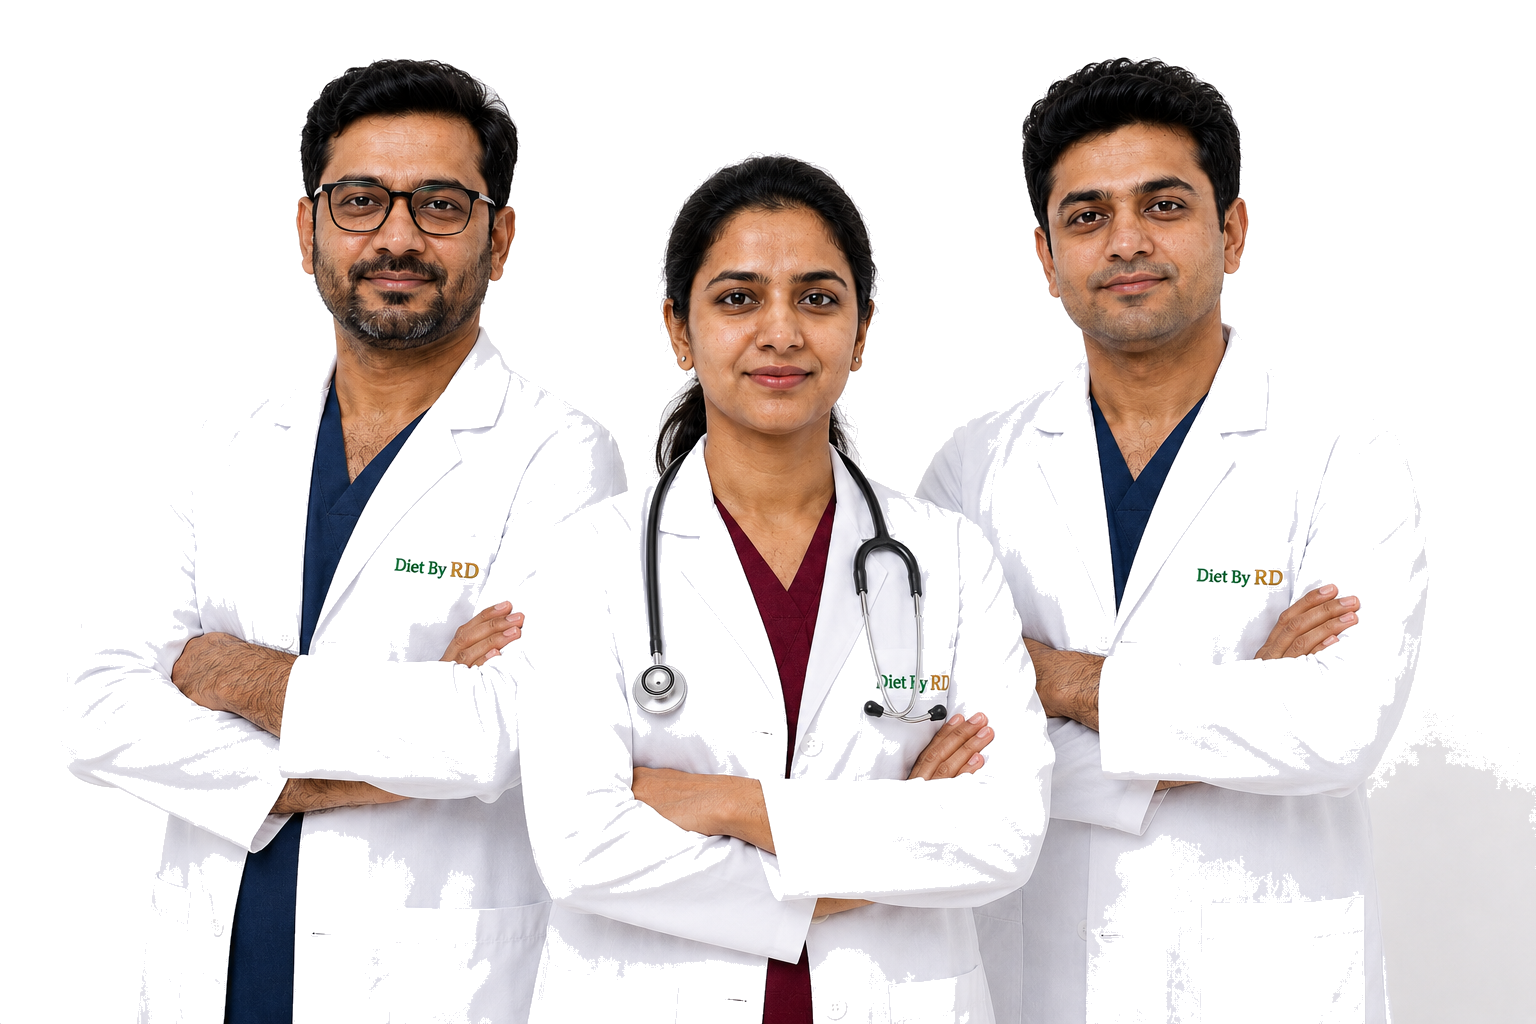
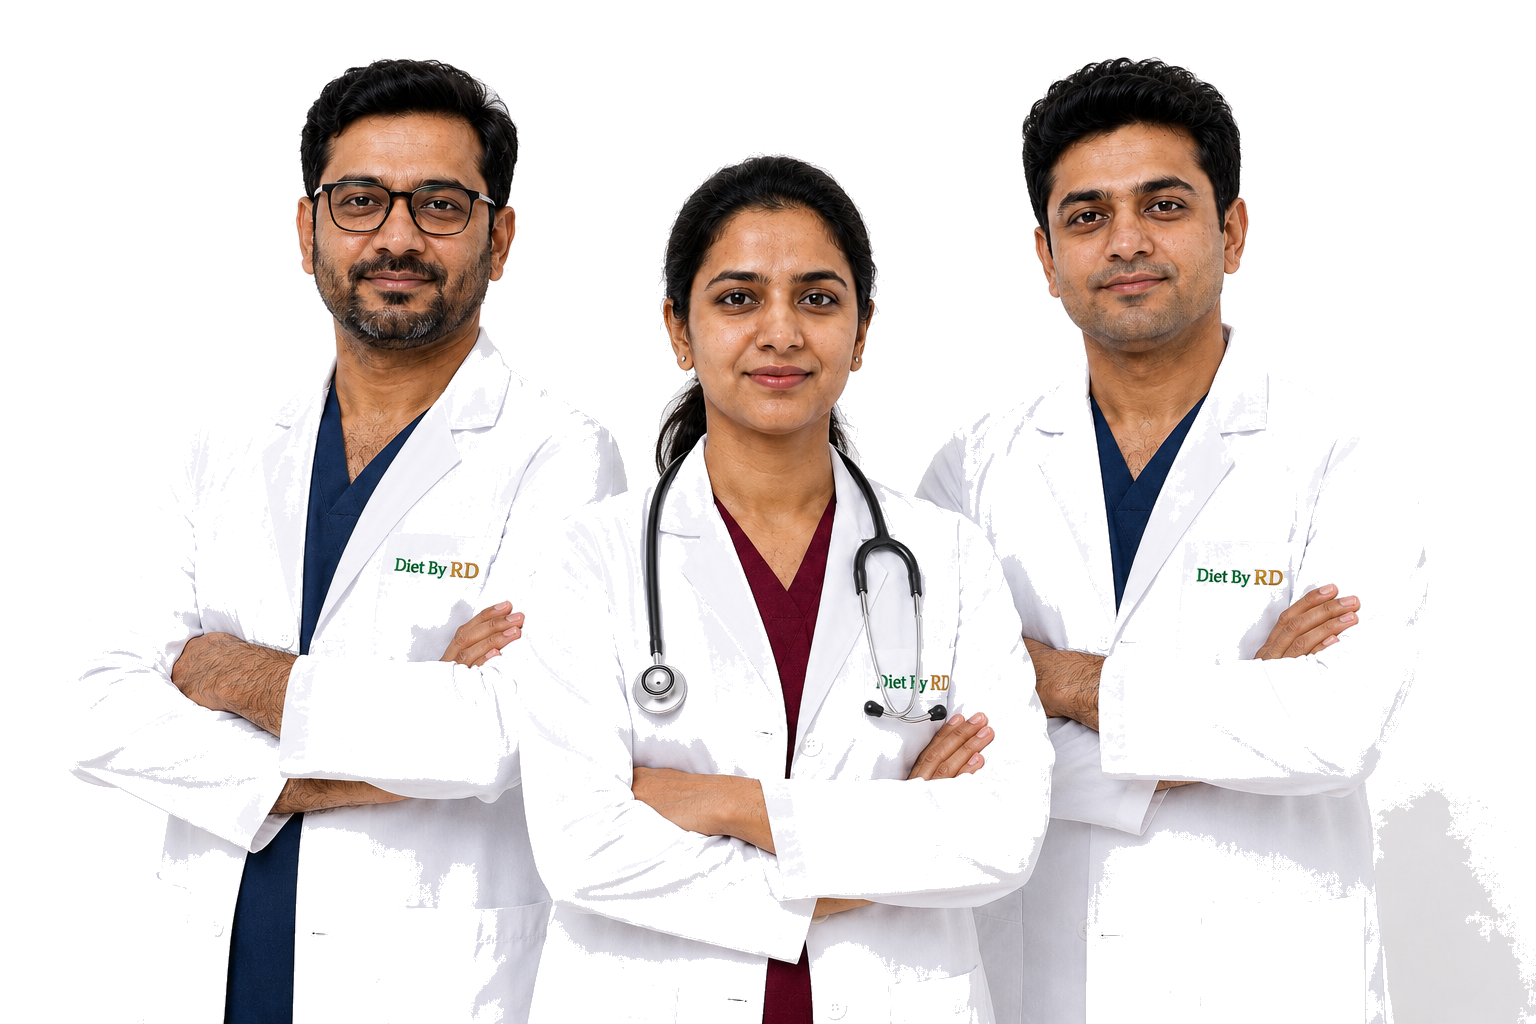
fix: perfectly remove background from doctors image using distance-based flood fill

diff --git a/src/pages/Index.tsx b/src/pages/Index.tsx
@@ -722,10 +722,10 @@ const Index = () => {
         <div className="w-full max-w-[1400px] h-full relative mx-auto">
           {showJoinForm ? (
             <img 
-              src="/doctors on sign in page.png" 
+              src="/doctors-nobg.png" 
               alt="Professional Doctors and Dietitians" 
               className="absolute bottom-0 right-[-8%] h-[85%] xl:h-[90%] object-contain object-right-bottom translate-x-[15%] xl:translate-x-[20%]"
-              style={{ mixBlendMode: 'multiply', filter: 'brightness(1.08) contrast(1.05)' }}
+              style={{ filter: 'drop-shadow(-8px 8px 16px rgba(0,0,0,0.06))' }}
             />
           ) : (
             <img 